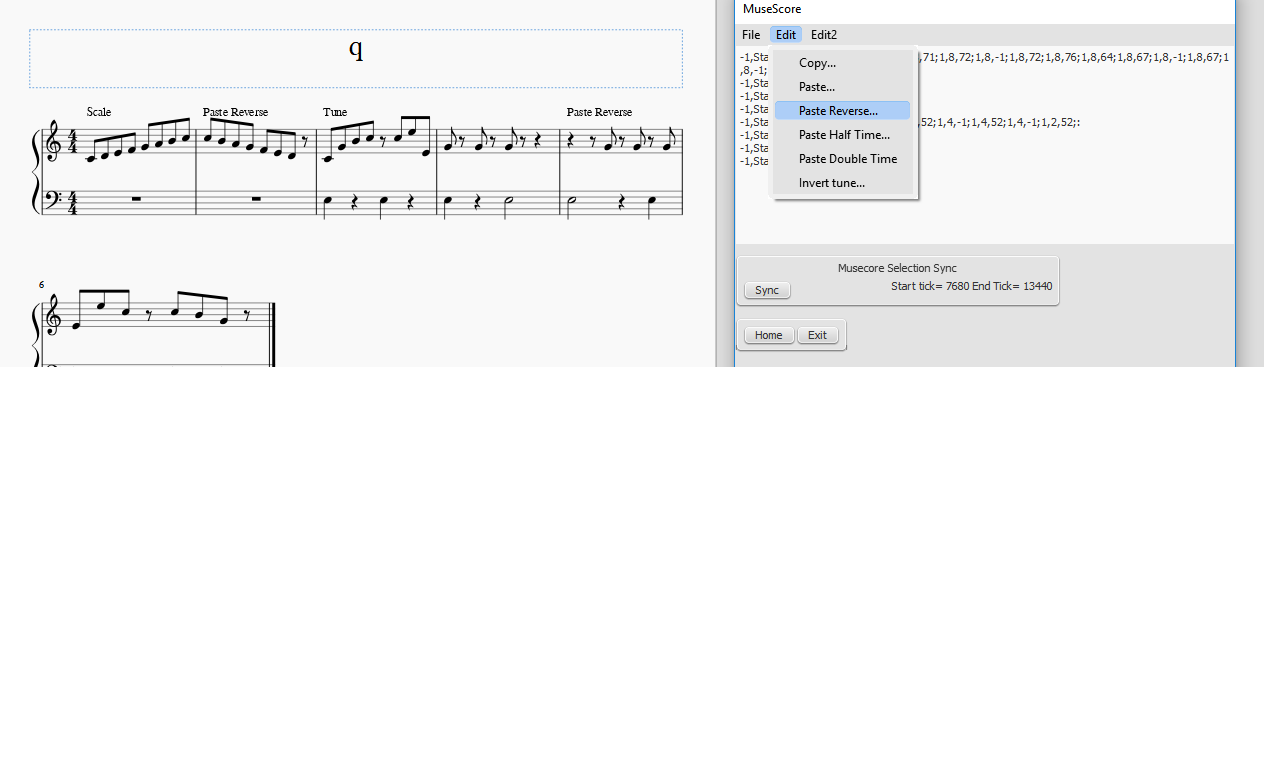
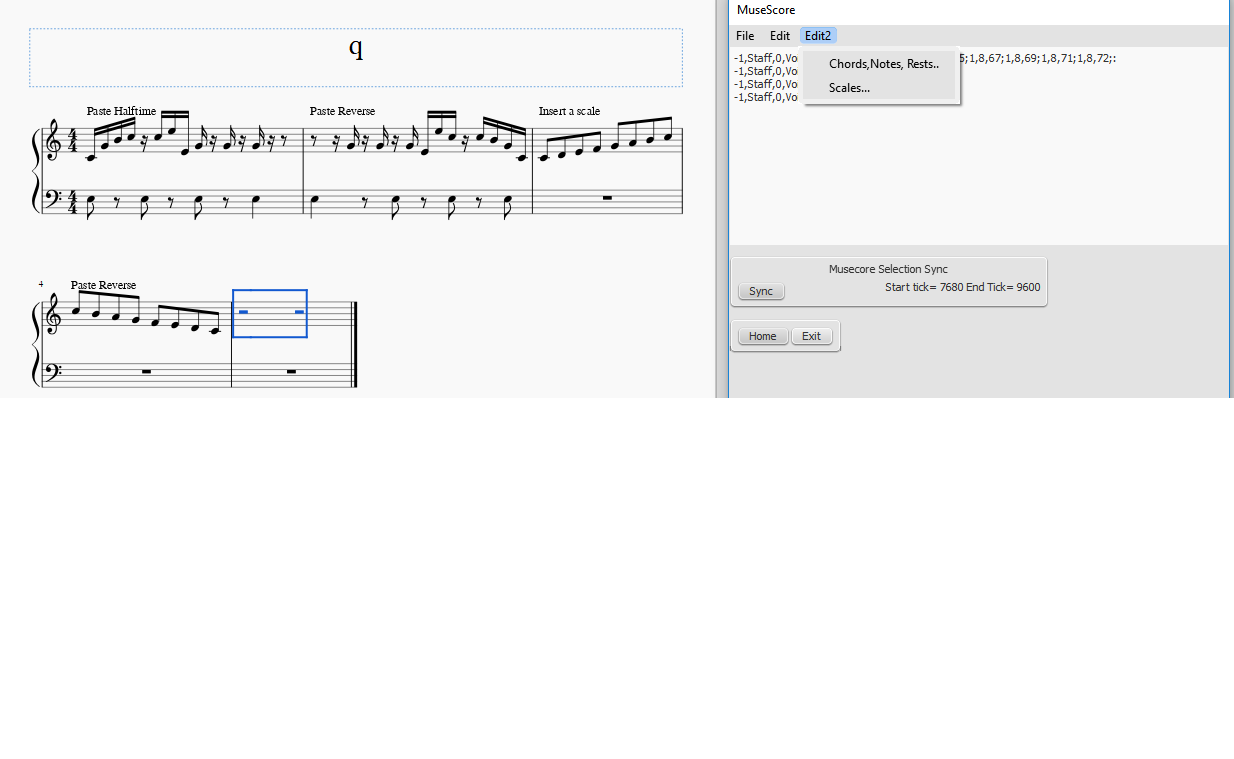
Fixed bug in paste reverse that omitted last note

Changed region(s): [[0.0308, 0.0, 1.0, 0.5455], [0.0308, 0.3636, 0.3079, 0.5152], [0.2771, 0.0303, 0.3079, 0.0909]]

diff --git a/writeTune1.qml b/writeTune1.qml
@@ -1074,7 +1074,7 @@ console.log("startStaff ",startStaff," endStaff ",endStaff);
      var tt=tune.slice(0, tune.length-1);
      tt.push(tune[0]);
      tt=tt.reverse();
-     tt.pop();
+//     tt.pop();
      tune=tt;
     }//endif direction
     staff1=a[2];
